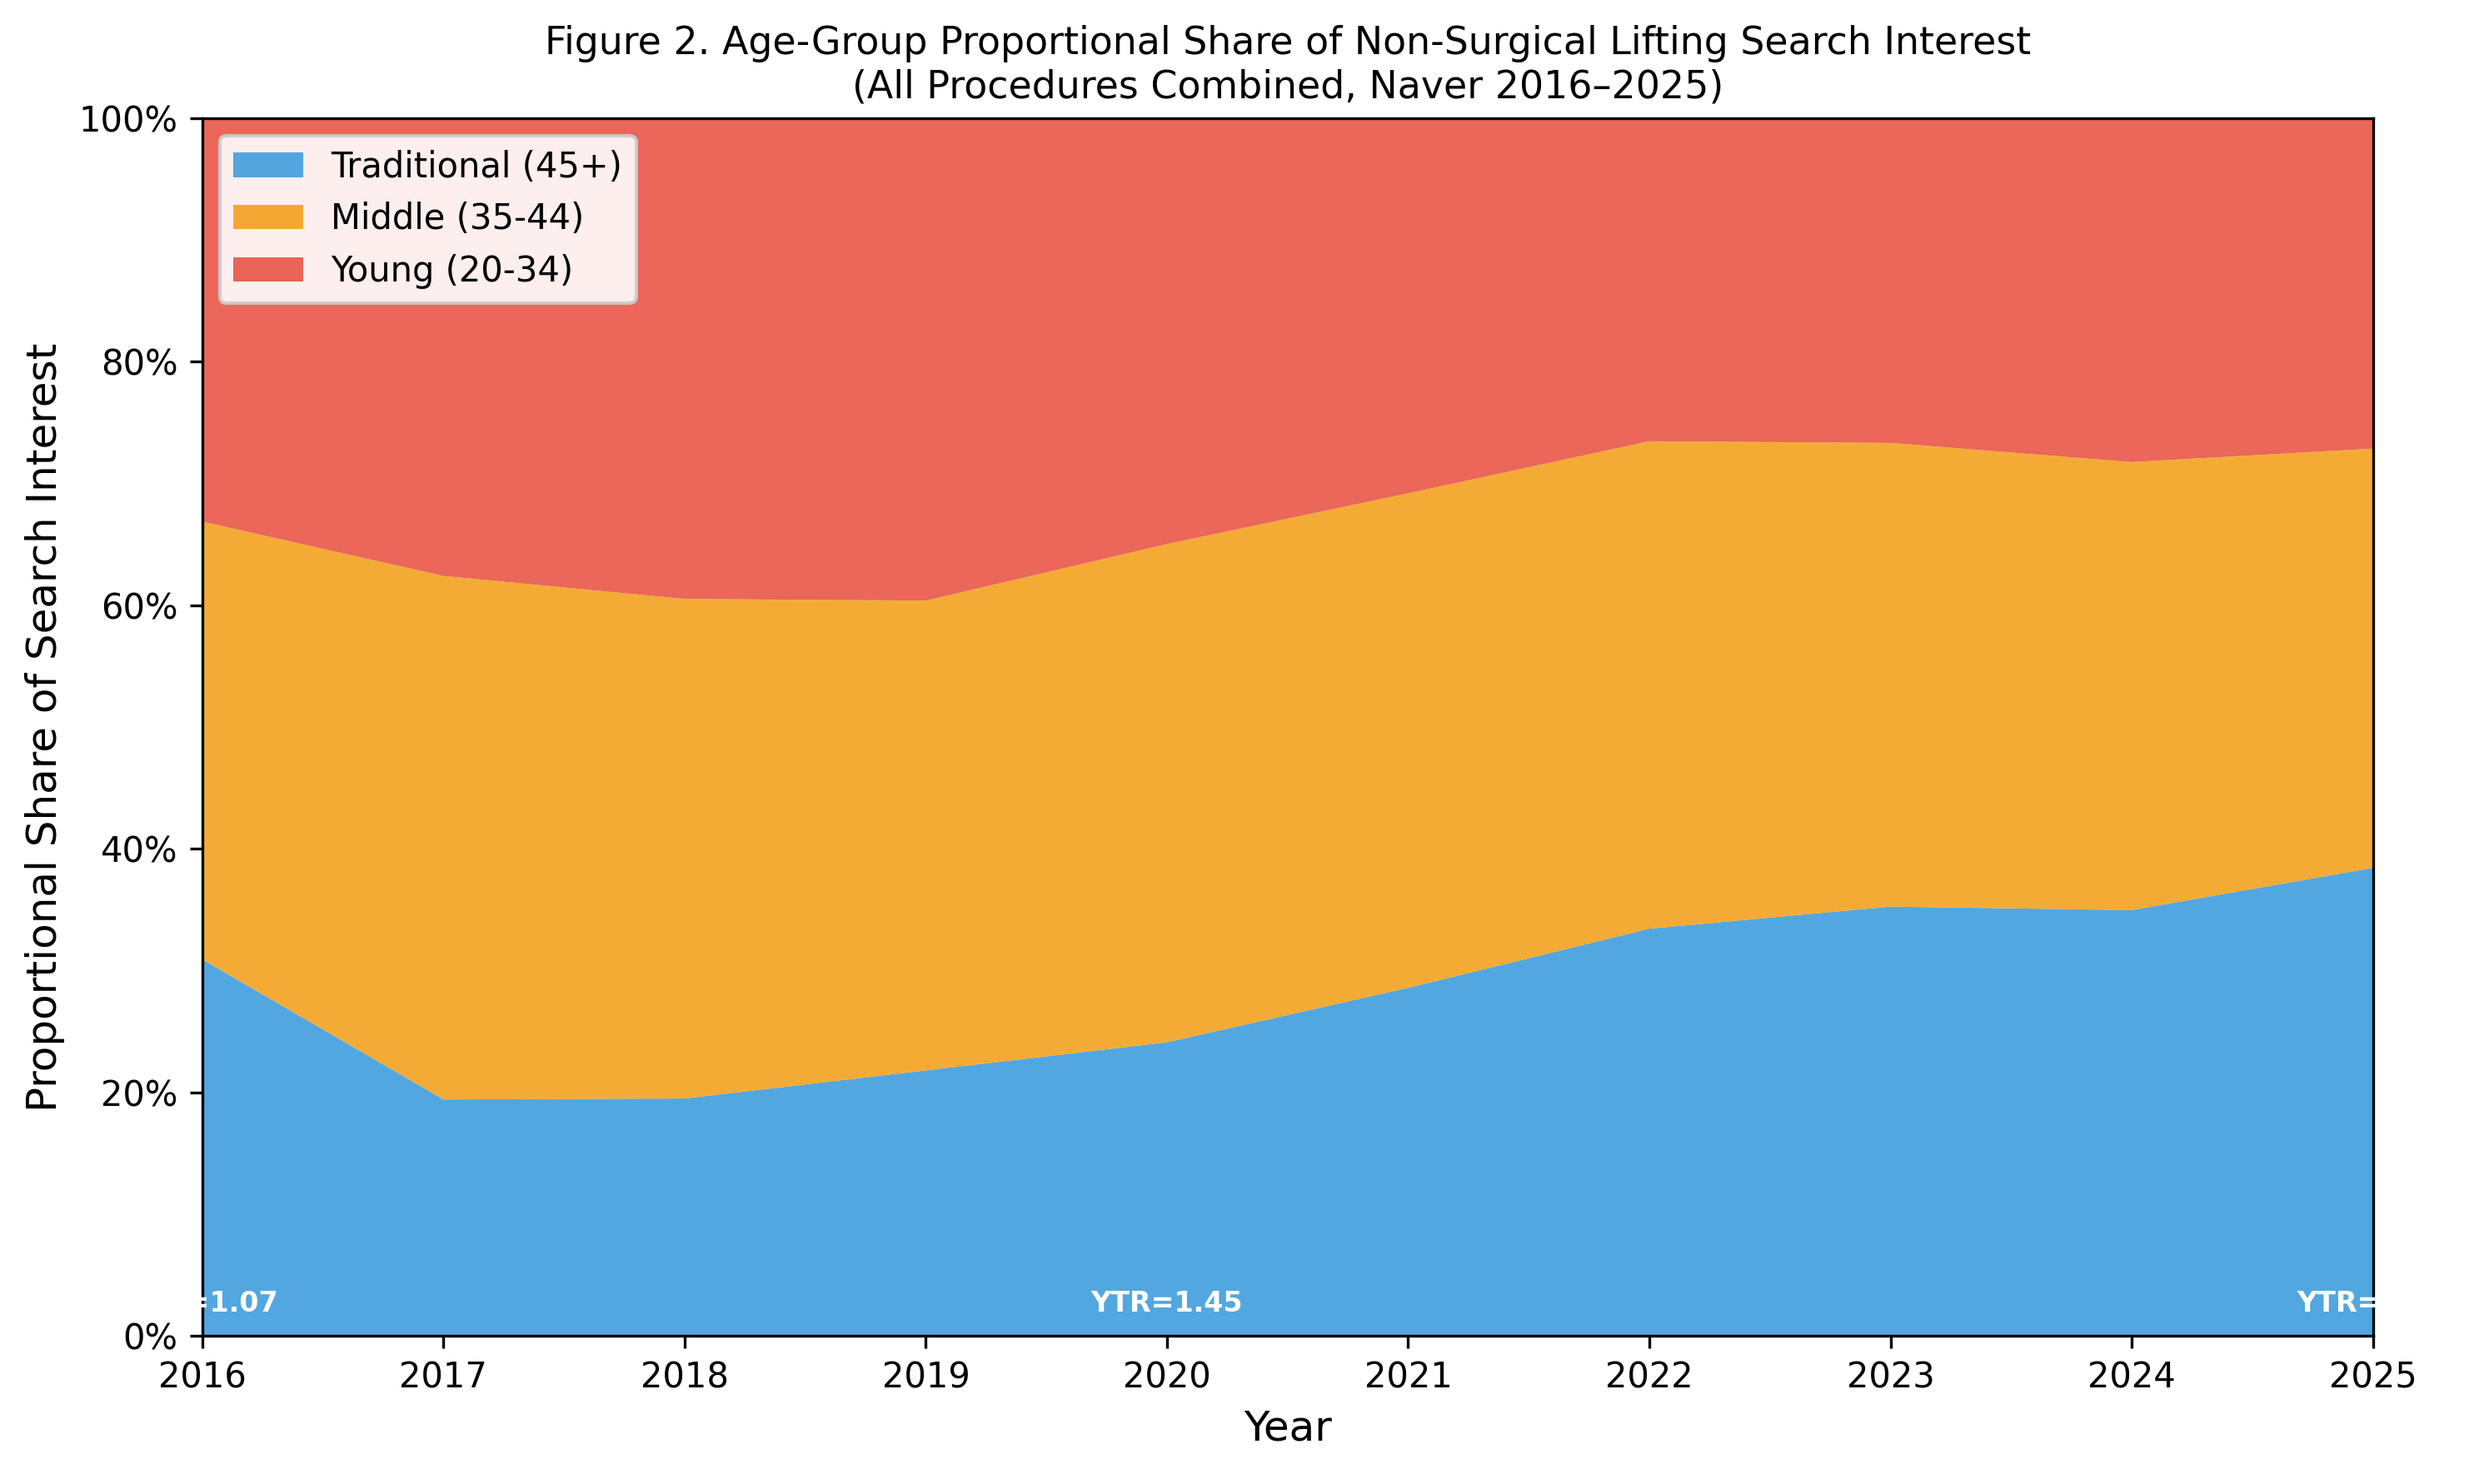
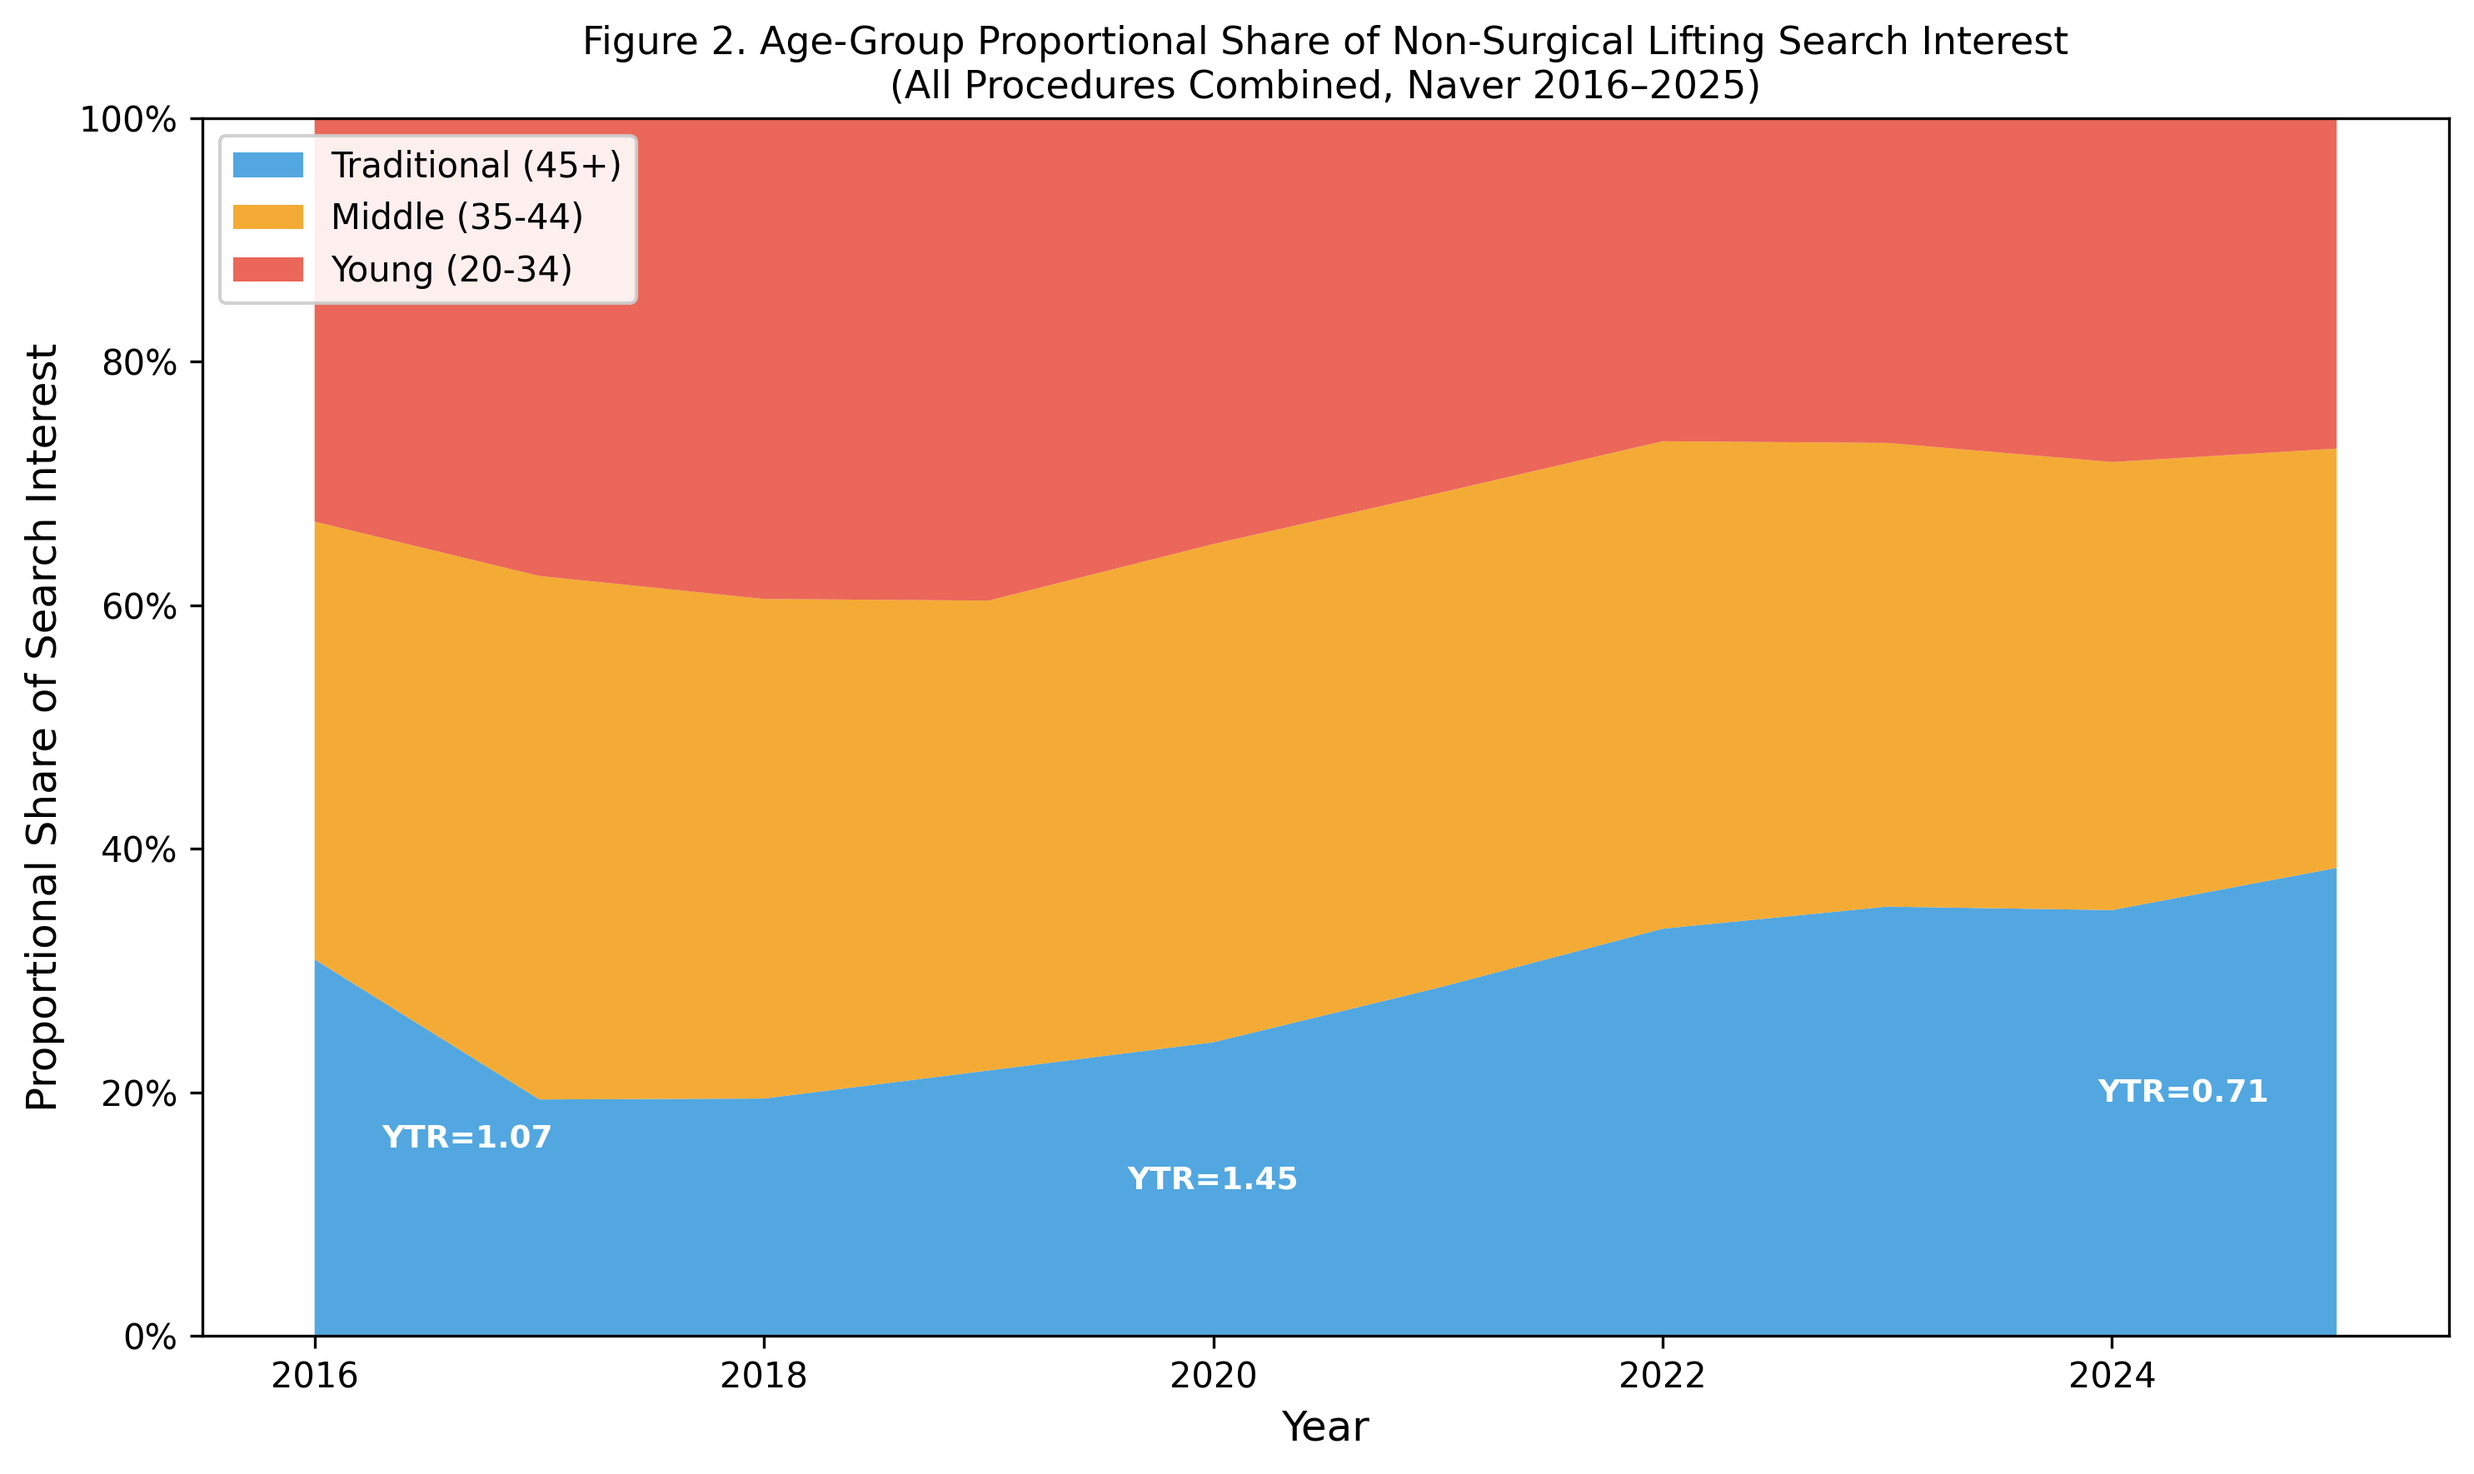
Round 2: English figure labels, supplementary materials, power analysis in Results
- Replace Korean keyword labels with English in all figures (journal is English)
- Fix Figure 2 YTR annotation positioning
- Add post-hoc power analysis results to Results section
- Fix "Two" → "Three" sensitivity analyses count in Methods
- Add Supplementary Materials section with S1-S4 tables and S1-S2 figures
- Add missing abbreviations (AR, DW, GLS, MDES, OLS)
- Add population aging reference [24] with OECD context
- Full manuscript coherence re-read for Round 2

https://claude.ai/code/session_01169x3uCsfoyhqxxDnSaZaE

diff --git a/analysis/07_figures.py b/analysis/07_figures.py
@@ -56,6 +56,16 @@ KW_COLORS = {
     "리프팅시술": "#1ABC9C",
 }
 
+# English labels for figures (target journal is English-language)
+KW_ENGLISH = {
+    "실리프팅": "Thread lifting",
+    "울쎄라": "Ulthera (HIFU)",
+    "슈링크": "Shrink (HIFU)",
+    "써마지": "Thermage (RF)",
+    "인모드": "InMode (RF)",
+    "리프팅시술": "Lifting (generic)",
+}
+
 
 def load_data():
     raw = pd.read_csv(os.path.join(BASE_DIR, "data", "raw", "naver_rsv_all.csv"))
@@ -80,7 +90,8 @@ def figure1(raw, gt):
 
     for kw in KW_COLORS:
         d = naver_all[naver_all["keyword"] == kw].sort_values("period")
-        ax1.plot(d["period"], d["ratio"], color=KW_COLORS[kw], label=kw, alpha=0.8, linewidth=1.2)
+        ax1.plot(d["period"], d["ratio"], color=KW_COLORS[kw],
+                 label=KW_ENGLISH.get(kw, kw), alpha=0.8, linewidth=1.2)
 
     ax1.set_xlabel("Date")
     ax1.set_ylabel("Naver RSV (0-100)", color="black")
@@ -134,17 +145,19 @@ def figure2(props):
     ax.set_title("Figure 2. Age-Group Proportional Share of Non-Surgical Lifting Search Interest\n"
                  "(All Procedures Combined, Naver 2016–2025)", fontsize=11)
     ax.legend(loc="upper left", fontsize=10, framealpha=0.9)
-    ax.set_xlim(2016, 2025)
+    ax.set_xlim(2015.5, 2025.5)
     ax.set_ylim(0, 1)
     ax.yaxis.set_major_formatter(plt.FuncFormatter(lambda y, _: f'{y:.0%}'))
 
-    # Annotate YTR values
-    for year in [2016, 2020, 2025]:
+    # Annotate YTR values inside the Traditional (bottom) band
+    annotations = [(2016, "left"), (2020, "center"), (2025, "right")]
+    for year, ha in annotations:
         y_val = pivot.loc[year, "Young"]
         t_val = pivot.loc[year, "Traditional"]
         ytr = y_val / t_val if t_val > 0 else 0
-        ax.annotate(f"YTR={ytr:.2f}", xy=(year, 0.02),
-                    fontsize=8, ha="center", color="white", weight="bold")
+        x_offset = 0.3 if ha == "left" else (-0.3 if ha == "right" else 0)
+        ax.annotate(f"YTR={ytr:.2f}", xy=(year + x_offset, t_val / 2),
+                    fontsize=9, ha=ha, color="white", weight="bold")
 
     plt.tight_layout()
     path = os.path.join(FIG_DIR, "figure2_age_proportions_stacked.png")
@@ -168,7 +181,7 @@ def figure3(table2):
                     fmt="o", color=color, capsize=4, markersize=8, linewidth=2)
 
     ax.set_yticks(list(y_pos))
-    ax.set_yticklabels(table2_sorted["keyword"].values, fontsize=10)
+    ax.set_yticklabels([KW_ENGLISH.get(k, k) for k in table2_sorted["keyword"].values], fontsize=10)
     ax.axvline(x=0, color="black", linestyle="--", linewidth=0.8, alpha=0.5)
     ax.set_xlabel("β₃ (Time × Young Interaction Coefficient)", fontsize=11)
     ax.set_title("Figure 3. Age-Differential Growth Rate in Search Interest by Procedure\n"
@@ -241,7 +254,7 @@ def figure_exploratory_panels(grouped):
             dd = d[d["age_group"] == ag].sort_values("period")
             ax.plot(dd["period"], dd["mean_rsv"], color=COLORS[ag], label=ag, linewidth=1.2)
 
-        ax.set_title(kw, fontsize=11, fontweight="bold")
+        ax.set_title(KW_ENGLISH.get(kw, kw), fontsize=11, fontweight="bold")
         ax.set_ylim(0, None)
         if i == 0:
             ax.legend(fontsize=8)

diff --git a/manuscript/draft.md b/manuscript/draft.md
@@ -132,7 +132,7 @@ The Young-to-Traditional Ratio (YTR = Proportion_Young / Proportion_Traditional)
 
 #### Sensitivity Analyses
 
-Two sensitivity analyses were conducted to assess robustness of the primary Approach A results. First, Prais-Winsten generalized least squares (GLS) estimation with iterative AR(1) correction was applied as an alternative to Newey-West HAC standard errors, to verify that findings were not driven by residual autocorrelation structure. Second, the seasonal dummy variables were replaced with Fourier terms (2 sine-cosine pairs at annual and semiannual frequencies) to confirm that seasonal adjustment specification did not influence the key β₃ estimates. Third, to address the primary threat of differential platform migration by age, we conducted a scenario-based sensitivity analysis in which Young (20–34) RSV values were inflated by correction factors of (1 + r)^(year − 2016), where r = 0.03, 0.05, or 0.07 (representing 3%, 5%, or 7% annual attrition of young users from Naver). The interaction model was re-fitted under each scenario to determine the attrition rate at which the maturation finding would reverse or become nonsignificant.
+Three sensitivity analyses were conducted to assess robustness of the primary Approach A results. First, Prais-Winsten generalized least squares (GLS) estimation with iterative AR(1) correction was applied as an alternative to Newey-West HAC standard errors, to verify that findings were not driven by residual autocorrelation structure. Second, the seasonal dummy variables were replaced with Fourier terms (2 sine-cosine pairs at annual and semiannual frequencies) to confirm that seasonal adjustment specification did not influence the key β₃ estimates. Third, to address the primary threat of differential platform migration by age, we conducted a scenario-based sensitivity analysis in which Young (20–34) RSV values were inflated by correction factors of (1 + r)^(year − 2016), where r = 0.03, 0.05, or 0.07 (representing 3%, 5%, or 7% annual attrition of young users from Naver). The interaction model was re-fitted under each scenario to determine the attrition rate at which the maturation finding would reverse or become nonsignificant.
 
 #### Additional Analyses
 
@@ -209,6 +209,10 @@ The Prais-Winsten GLS analysis confirmed the maturation finding for thread lifti
 
 In the platform migration sensitivity analysis, the maturation finding for thread lifting and generic lifting remained statistically significant even under the most extreme assumption of 7% annual attrition of young users from Naver (thread lifting: β₃ = −0.457, P_BH < .001; generic lifting: β₃ = −0.267, P_BH = .04). HIFU-value became nonsignificant at 5% attrition. No keyword showed significant youth acceleration under any attrition scenario up to 7% per year (Supplementary Table S1).
 
+#### Post-Hoc Power Analysis
+
+For the 3 nonsignificant keywords, the minimum detectable effect size (MDES) at 80% power ranged from 0.28 to 0.60, whereas their observed |β₃| values were only 0.047 to 0.055. Observed power was below 10% for all 3 nonsignificant keywords, indicating that the study was substantially underpowered to detect effects of this magnitude. Approximately 15,000 observations per keyword would be needed to detect the average nonsignificant effect size at 80% power, compared with the approximately 236 available (Supplementary Table S2).
+
 ### Gender Stratification
 
 The maturation pattern was present in both genders but was more pronounced among female searchers (Table 4). For thread lifting, the female β₃ was −0.652 (P_BH < .001) compared with the male β₃ of −0.161 (P_BH = .018) — a 4-fold difference in magnitude. For the generic lifting term, the female β₃ was −0.573 (P_BH < .001) compared with the male β₃ of −0.303 (P_BH = .002). The 3 keywords without significant overall maturation (Thermage, Ulthera, InMode) also showed no significant gender-specific patterns.
@@ -254,7 +258,7 @@ These findings align with the Diffusion of Innovations framework [7]. Young adul
 
 This reframes the prevailing narrative. The question is not whether non-surgical lifting "went younger" but whether the market followed a typical innovation diffusion curve in which early youth interest served as a leading indicator of subsequent mainstream adoption by the clinically indicated population. Our data support the latter interpretation.
 
-We acknowledge that the innovation diffusion framework applies most directly to procedures that were genuinely novel during the study period, such as Shrink (슈링크, launched approximately 2018) and InMode (Korean market entry approximately 2018). Established devices such as Thermage (2002) and Ulthera (2009) had already completed their initial diffusion cycle before 2016. Notably, these established brands showed nonsignificant β₃ — consistent with a stable, post-diffusion age composition — while the newer entrants and the category-level search term showed the strongest maturation signals. An alternative, complementary explanation is population aging: South Korea's rapid demographic aging may independently increase the pool of older consumers seeking skin-laxity treatments, contributing to the observed Traditional-demographic growth.
+We acknowledge that the innovation diffusion framework applies most directly to procedures that were genuinely novel during the study period, such as Shrink (슈링크, launched approximately 2018) and InMode (Korean market entry approximately 2018). Established devices such as Thermage (2002) and Ulthera (2009) had already completed their initial diffusion cycle before 2016. Notably, these established brands showed nonsignificant β₃ — consistent with a stable, post-diffusion age composition — while the newer entrants and the category-level search term showed the strongest maturation signals. An alternative, complementary explanation is population aging: South Korea's rapid demographic aging — among the fastest in the Organisation for Economic Co-operation and Development, with the proportion of the population aged 65 years or older rising from 13.2% in 2016 to 19.2% in 2025 [24] — may independently increase the pool of older consumers seeking skin-laxity treatments, contributing to the observed Traditional-demographic growth.
 
 ### Procedure-Specific Patterns
 
@@ -329,6 +333,7 @@ The raw Naver DataLab RSV dataset, Google Trends data, processed analytic datase
 21. Dhanda AK, Leverant A, Leshchuk K, et al. A Google Trends analysis of facial cosmetic surgery interest during the COVID-19 pandemic. *Aesthet Surg J*. 2022;42(4):NP237-NP244.
 22. Korea Internet & Security Agency. 2024 Internet Usage Survey. KISA; 2024.
 23. Wiseapp. Search engine app usage statistics by age group in South Korea. Wiseapp Report; 2024.
+24. Statistics Korea. Population Projections for Korea: 2020–2070. Statistics Korea; 2024.
 
 ---
 
@@ -348,14 +353,35 @@ Joinpoint regression of the mean Young-to-Traditional Ratio (YTR) across all key
 
 ---
 
+## Supplementary Materials
+
+**Supplementary Table S1.** Platform migration sensitivity analysis: β₃ (Time × Young) under simulated young-user attrition scenarios (3%, 5%, 7% annual Naver attrition).
+
+**Supplementary Table S2.** Post-hoc power analysis: minimum detectable effect size at 80% power, observed power, and required sample size for nonsignificant keywords.
+
+**Supplementary Table S3.** Prais-Winsten GLS sensitivity analysis: β₃ estimates with AR(1)-corrected standard errors.
+
+**Supplementary Table S4.** Fourier term sensitivity analysis: β₃ estimates with harmonic seasonal adjustment.
+
+**Supplementary Figure S1.** Young (20–34) vs Traditional (45+) RSV time series by individual procedure keyword (6-panel display).
+
+**Supplementary Figure S2.** Google Trends RSV for global prejuvenation-related search terms ("prejuvenation," "preventive botox," "baby botox"), 2016–2025.
+
+---
+
 ## Abbreviations
 
 API: application programming interface
+AR: autoregressive
 BIC: Bayesian information criterion
+DW: Durbin-Watson
 FDR: false discovery rate
+GLS: generalized least squares
 GT: Google Trends
 HAC: heteroscedasticity and autocorrelation consistent
 HIFU: high-intensity focused ultrasound
+MDES: minimum detectable effect size
+OLS: ordinary least squares
 RF: radiofrequency
 RSV: relative search volume
 STROBE: Strengthening the Reporting of Observational Studies in Epidemiology
